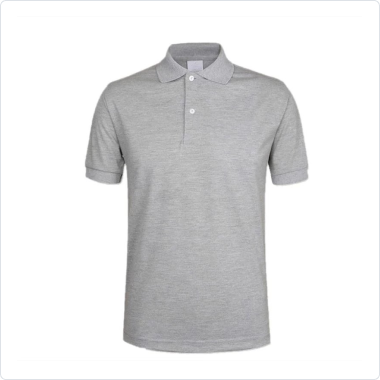
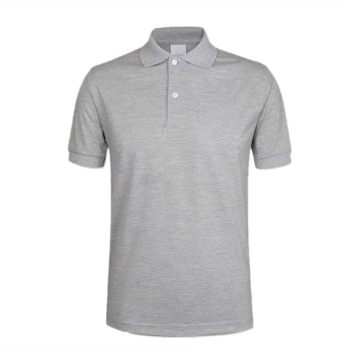
second commit

diff --git a/web-detail.html b/web-detail.html
@@ -77,7 +77,7 @@
         <div class="product-main-section">
           <div class="product-gallery">
             <div class="product-main-image">
-              <img src="images/image 34.png" alt="Men's Long Sleeve T-shirt" />
+              <img src="images/Group 1004.png" alt="Men's Long Sleeve T-shirt" />
             </div>
             <div class="product-thumbnails">
               <img src="images/Image 6.png" alt="Thumbnail 1" />
